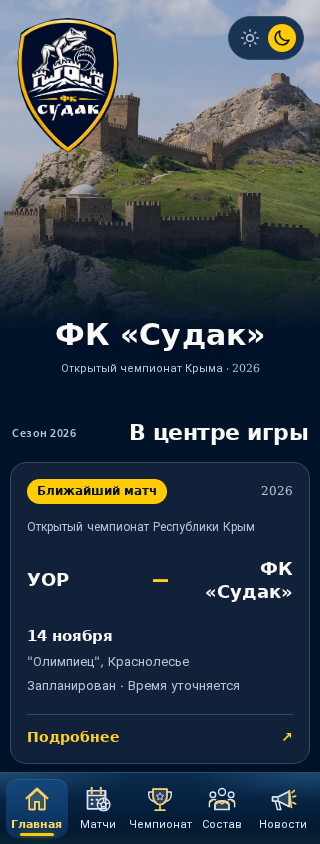
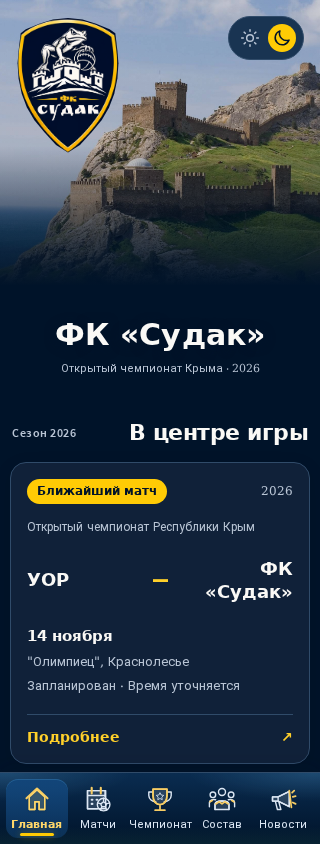
fix: keep fortress towers clear of home crest

diff --git a/index.html b/index.html
@@ -242,9 +242,11 @@ body:has(#home.on) header:before{
 }
 @media(max-width:640px){
   body:has(#home.on) header:before{
-    /* A wider crop keeps both the central keep and the summit tower in view.
-       Finish the fade before the photograph ends at 84% of the hero height. */
-    background-size:100% 88%,100% 84%,auto 84%;
+    /* Shift the wider crop right to clear the fixed crest while keeping the
+       summit tower inside the viewport. End the fade before the photo edge. */
+    background-position:center top,center top,30% top;
+    /* The source ratio (1127/1600) keeps the image at least viewport-wide. */
+    background-size:100% 76%,100% 84%,auto max(72%,70.4375vw);
   }
 }
 body:has(#home.on) header .crest{

diff --git a/modern-home.css b/modern-home.css
@@ -138,9 +138,11 @@ body:has(#home.on) header:before{
 }
 @media(max-width:640px){
   body:has(#home.on) header:before{
-    /* A wider crop keeps both the central keep and the summit tower in view.
-       Finish the fade before the photograph ends at 84% of the hero height. */
-    background-size:100% 88%,100% 84%,auto 84%;
+    /* Shift the wider crop right to clear the fixed crest while keeping the
+       summit tower inside the viewport. End the fade before the photo edge. */
+    background-position:center top,center top,30% top;
+    /* The source ratio (1127/1600) keeps the image at least viewport-wide. */
+    background-size:100% 76%,100% 84%,auto max(72%,70.4375vw);
   }
 }
 body:has(#home.on) header .crest{

diff --git a/docs/fortress-photo/README.md b/docs/fortress-photo/README.md
@@ -6,8 +6,11 @@
[1 lines of base64/hex data omitted]
 
 Меняется только фотография и CSS фонового слоя главной, включая его встроенную
-копию в `index.html`. На экранах до 640 px фотография занимает 84% высоты шапки;
-горизонтальная позиция 70% сохраняет центральные башни и башню на вершине.
+копию в `index.html`. На экранах до 640 px фотография занимает минимум 72% высоты шапки
+и заполняет всю ширину. Горизонтальная позиция 30% сдвигает изображение вправо:
+центральные башни полностью выходят из-под эмблемы, а башня на вершине остаётся
+в кадре и ниже переключателя тем. Градиент подогнан к новому краю фотографии;
+его цвета, стопы и сила синего затемнения сохранены.
 На более широких экранах используется `cover`, чтобы фотография заполняла ширину.
 В тёмной теме поверх изображения наложен `#001329` с прозрачностью около 14%.
 В светлой теме цветного затемнения нет. Верхний градиент заканчивается точным
@@ -37,6 +40,14 @@ Chromium, при высоте окна 844 px и масштабе 1, после 
 восьми вариантах: проверены шапка, эмблема, блок заголовка, все карточки главной,
 нижнее меню и переключатель. Горизонтального переполнения нет. Скриншоты
 проверены визуально: башни видны, фотография плавно переходит в фон обеих тем.
+
+После коррекции кадрирования в PR №25 серия `after/` переснята. Дополнительно
+проверено положение центральных башен и башни на вершине по координатам исходной
+фотографии: центральные башни правее границы эмблемы, верхняя башня внутри кадра
+и ниже переключателя тем во всех восьми вариантах. Размеры и положение
+элементов страницы, файл фотографии и JavaScript остались прежними.
+Повторно успешно выполнена `tests/themes.browser.cjs` на всех четырёх ширинах
+в обеих темах; остальные результаты ниже относятся к исходному изменению PR.
 
 ## Проверки
 
